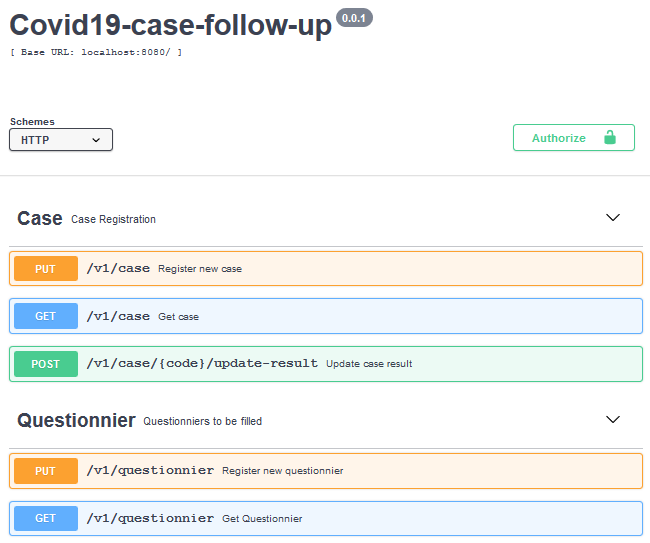
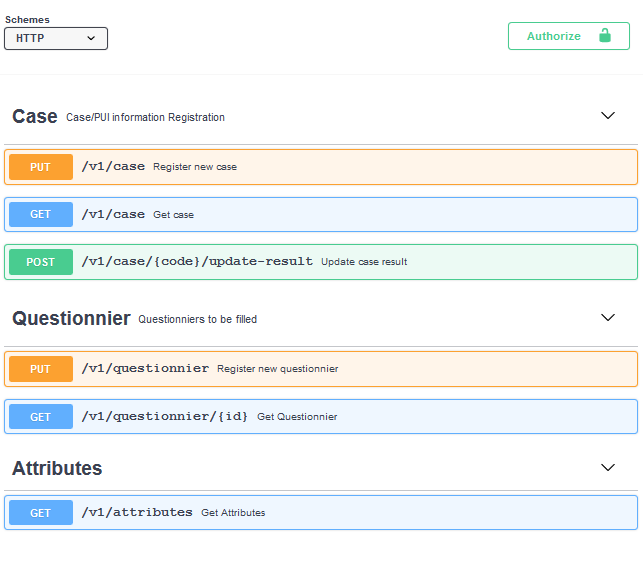
add attributes end-point

Changed region(s): [[0.0, 0.1768, 0.9953, 1.0], [0.0, 0.0, 0.591, 0.1179], [0.7776, 0.0295, 0.9642, 0.0884]]

diff --git a/src/main/java/et/covid19/rest/services/impl/QuestionnierServiceImpl.java b/src/main/java/et/covid19/rest/services/impl/QuestionnierServiceImpl.java
@@ -1,6 +1,7 @@
 package et.covid19.rest.services.impl;
 
 import java.io.IOException;
+import java.util.Objects;
 
 import org.apache.commons.lang3.StringUtils;
 import org.hibernate.exception.ConstraintViolationException;
@@ -10,6 +11,7 @@ import org.springframework.stereotype.Service;
 import org.springframework.transaction.annotation.Transactional;
 
 import com.fasterxml.jackson.databind.ObjectMapper;
+import com.google.common.collect.ImmutableSet;
 
 import et.covid19.rest.annotations.EthLoggable;
 import et.covid19.rest.dal.model.Questionier;
@@ -17,6 +19,7 @@ import et.covid19.rest.dal.repositories.QuestionnierRepository;
 import et.covid19.rest.services.IQuestionnierService;
 import et.covid19.rest.swagger.model.ModelQuestionnier;
 import et.covid19.rest.swagger.model.RequestSaveQuestionnier;
+import et.covid19.rest.util.EthConstants;
 import et.covid19.rest.util.exception.EthException;
 import et.covid19.rest.util.exception.EthExceptionEnums;
 import et.covid19.rest.util.mappers.QuestionnierMapper;
@@ -35,12 +38,14 @@ public class QuestionnierServiceImpl extends AbstractService implements IQuestio
 	@Transactional(rollbackFor = Exception.class)
 	public boolean registerQuestionnier(RequestSaveQuestionnier question) throws EthException {
 		try{
-			if(StringUtils.isAnyBlank(question.getQuestion(), question.getOptions(), question.getCategory()))
+			if(StringUtils.isAnyBlank(question.getQuestion(), question.getOptions()) || Objects.isNull(question.getCategory()))
 				throw EthExceptionEnums.VALIDATION_EXCEPTION.get();
 			
 			//options() => All possible values of the question as json
 			// throws exception on invalid json
 			objectMapper.readValue(question.getOptions(), Object.class);
+			
+			validateInputEnumById(EthConstants.CONST_TYPE_QUESTIONNIER_CAT, ImmutableSet.of(question.getCategory()));
 			
 			Questionier entity = QuestionnierMapper.INSTANCE.modelQuestionierToEntityMapper(question);
 			questionnierRepository.save(entity);

diff --git a/src/main/java/et/covid19/rest/controllers/AttributesController.java b/src/main/java/et/covid19/rest/controllers/AttributesController.java
@@ -1,0 +1,43 @@
+package et.covid19.rest.controllers;
+
+import org.springframework.beans.factory.annotation.Autowired;
+import org.springframework.http.HttpStatus;
+import org.springframework.http.ResponseEntity;
+import org.springframework.web.bind.annotation.RestController;
+
+import et.covid19.rest.annotations.EthLoggable;
+import et.covid19.rest.config.AbstractController;
+import et.covid19.rest.services.IAttributeService;
+import et.covid19.rest.swagger.api.AttributesApi;
+import et.covid19.rest.swagger.model.ModelAttributeList;
+import et.covid19.rest.swagger.model.ResponseAttributesList;
+import et.covid19.rest.util.exception.EthException;
+
+@RestController
+public class AttributesController extends AbstractController implements AttributesApi {
+
+	@Autowired
+	private IAttributeService attributeService;
+	
+	@Override
+	@EthLoggable
+	public ResponseEntity<ResponseAttributesList> getAttributes() {
+		Class<ResponseAttributesList> responseClass = ResponseAttributesList.class;
+		ResponseAttributesList response = null;
+		HttpStatus status = HttpStatus.OK;
+		try{
+			ModelAttributeList attrList = attributeService.getAttributeList();
+			response = fillSuccessResponse(new ResponseAttributesList().returnValue(attrList));
+		} catch(EthException ex) {
+			status = ex.getHttpCode();
+			response = fillFailResponseEthException(responseClass, ex);
+		} catch (Exception ex) {
+			status = HttpStatus.INTERNAL_SERVER_ERROR;
+			response = fillFailResponseGeneric(responseClass);
+		}
+		
+		return new ResponseEntity<>(response, status);
+	}
+
+	
+}

diff --git a/src/main/java/et/covid19/rest/services/impl/AttributeServiceImpl.java b/src/main/java/et/covid19/rest/services/impl/AttributeServiceImpl.java
@@ -1,0 +1,38 @@
+package et.covid19.rest.services.impl;
+
+import java.util.List;
+
+import org.springframework.stereotype.Service;
+
+import et.covid19.rest.annotations.EthLoggable;
+import et.covid19.rest.dal.model.ConstantEnum;
+import et.covid19.rest.services.IAttributeService;
+import et.covid19.rest.swagger.model.ModelAttribute;
+import et.covid19.rest.swagger.model.ModelAttributeList;
+import et.covid19.rest.util.exception.EthException;
+import et.covid19.rest.util.exception.EthExceptionEnums;
+import et.covid19.rest.util.mappers.AttributesMapper;
+
+@Service
+public class AttributeServiceImpl extends AbstractService implements IAttributeService {
+
+	@Override
+	@EthLoggable
+	public ModelAttributeList getAttributeList() throws EthException {
+		try {
+			List<ConstantEnum> attributeList = constantsEnumRepository.findAll();
+			if(attributeList.isEmpty())
+				throw EthExceptionEnums.CONSTANT_NOT_FOUND.get();
+			
+			ModelAttributeList modelAttrList = new ModelAttributeList();
+			attributeList.stream().forEach(attr -> {
+				ModelAttribute model = AttributesMapper.INSTANCE.entityToModelMapper(attr);
+				modelAttrList.addAttributesItem(model);
+			});
+			return modelAttrList;
+		} catch (Exception ex) {
+			throw ex;
+		}
+	}
+
+}

diff --git a/src/main/java/et/covid19/rest/services/impl/AbstractService.java b/src/main/java/et/covid19/rest/services/impl/AbstractService.java
@@ -20,10 +20,10 @@ import et.covid19.rest.util.exception.EthExceptionEnums;
 public class AbstractService {
 	
 	@Autowired
-	private ConstantsEnumRepository constantsEnumRepository;
+	protected ConstantsEnumRepository constantsEnumRepository;
 	
 	@EthLoggable
-	public List<ConstantEnum> getEnumByType(String type) throws EthException {
+	protected List<ConstantEnum> getEnumByType(String type) throws EthException {
 		List<ConstantEnum> result = new ArrayList<>();
 		try{
 			List<ConstantEnum> enums = constantsEnumRepository.findByEnumType(type);
@@ -39,7 +39,7 @@ public class AbstractService {
 	
 	//do a set difference to validate input vs fetched
 	@EthLoggable
-	public boolean validateInputEnumById(String type, Set<Integer> id) throws EthException {
+	protected boolean validateInputEnumById(String type, Set<Integer> id) throws EthException {
 		try{
 			Set<Integer> foundIds = getEnumByType(type).stream().map(ConstantEnum::getEnumCode).collect(Collectors.toSet());
 			return Sets.difference(id, foundIds).isEmpty();

diff --git a/src/main/java/et/covid19/rest/util/mappers/AttributesMapper.java b/src/main/java/et/covid19/rest/util/mappers/AttributesMapper.java
@@ -1,0 +1,25 @@
+package et.covid19.rest.util.mappers;
+
+import org.mapstruct.Mapper;
+import org.mapstruct.Mapping;
+import org.mapstruct.Mappings;
+import org.mapstruct.factory.Mappers;
+
+import et.covid19.rest.dal.model.ConstantEnum;
+import et.covid19.rest.swagger.model.ModelAttribute;
+
+@Mapper
+public interface AttributesMapper {
+
+	AttributesMapper INSTANCE = Mappers.getMapper(AttributesMapper.class);
+
+	@Mappings({
+		@Mapping(target="attName", source="enumName"),
+		@Mapping(target="attType", source="enumType"),
+		@Mapping(target="attCode", source="enumCode"),
+		@Mapping(target="attLabel", source="enumLabel"),
+		@Mapping(target="attDesc", source="enumDesc"),
+	})
+	ModelAttribute entityToModelMapper(ConstantEnum attr);
+
+}

diff --git a/src/main/java/et/covid19/rest/util/exception/EthExceptionEnums.java b/src/main/java/et/covid19/rest/util/exception/EthExceptionEnums.java
@@ -13,7 +13,7 @@ public enum EthExceptionEnums implements Supplier<EthException> {
 
 	USER_NOT_FOUND(new EthException(HttpStatus.NOT_FOUND , 404001, "User not found.")),
 	CASE_NOT_FOUND(new EthException(HttpStatus.NOT_FOUND , 404002, "Case not found.")),
-	CONSTANT_NOT_FOUND(new EthException(HttpStatus.NOT_FOUND , 404003, "Case not found.")),
+	CONSTANT_NOT_FOUND(new EthException(HttpStatus.NOT_FOUND , 404003, "Attribute/Constant not found.")),
 	QUESTIONNIER_NOT_FOUND(new EthException(HttpStatus.NOT_FOUND , 404004, "Questionnier not found.")),
 	
 	USERNAME_OR_EMAIL_INCORECT(new EthException(HttpStatus.UNAUTHORIZED , 401001, "User name or email incorrect!")),

diff --git a/src/main/java/et/covid19/rest/controllers/QuestionnierController.java b/src/main/java/et/covid19/rest/controllers/QuestionnierController.java
@@ -33,7 +33,8 @@ public class QuestionnierController extends AbstractController implements Questi
 	@Override
 	@EthLoggable
 	public ResponseEntity<ResponseQuestionnierSingle> getQuestionnier(
-			@ApiParam(value = "",required=true) @PathVariable("id") Integer id) {
+			@ApiParam(value = "",required=true) @PathVariable("id") Integer id) 
+	{
 		Class<ResponseQuestionnierSingle> responseClass = ResponseQuestionnierSingle.class;
 		ResponseQuestionnierSingle response = null;
 		HttpStatus status = HttpStatus.OK;

diff --git a/src/main/java/et/covid19/rest/util/EthConstants.java b/src/main/java/et/covid19/rest/util/EthConstants.java
@@ -6,6 +6,7 @@ public class EthConstants {
 
 	public static final String CONST_TYPE_TEST_RESULT = "TEST_RESULT";
 	public static final String CONST_TYPE_IDENTIFIED_BY = "IDENTIFIED_BY";
+	public static final String CONST_TYPE_QUESTIONNIER_CAT = "QUESTIONNIER_CATEGORY";
 	
 	private EthConstants() throws EthException {
 		throw new EthException("Utility class.");

diff --git a/src/main/java/et/covid19/rest/services/IAttributeService.java b/src/main/java/et/covid19/rest/services/IAttributeService.java
@@ -1,0 +1,9 @@
+package et.covid19.rest.services;
+
+import et.covid19.rest.swagger.model.ModelAttributeList;
+import et.covid19.rest.util.exception.EthException;
+
+public interface IAttributeService {
+
+	public ModelAttributeList getAttributeList() throws EthException;
+}
